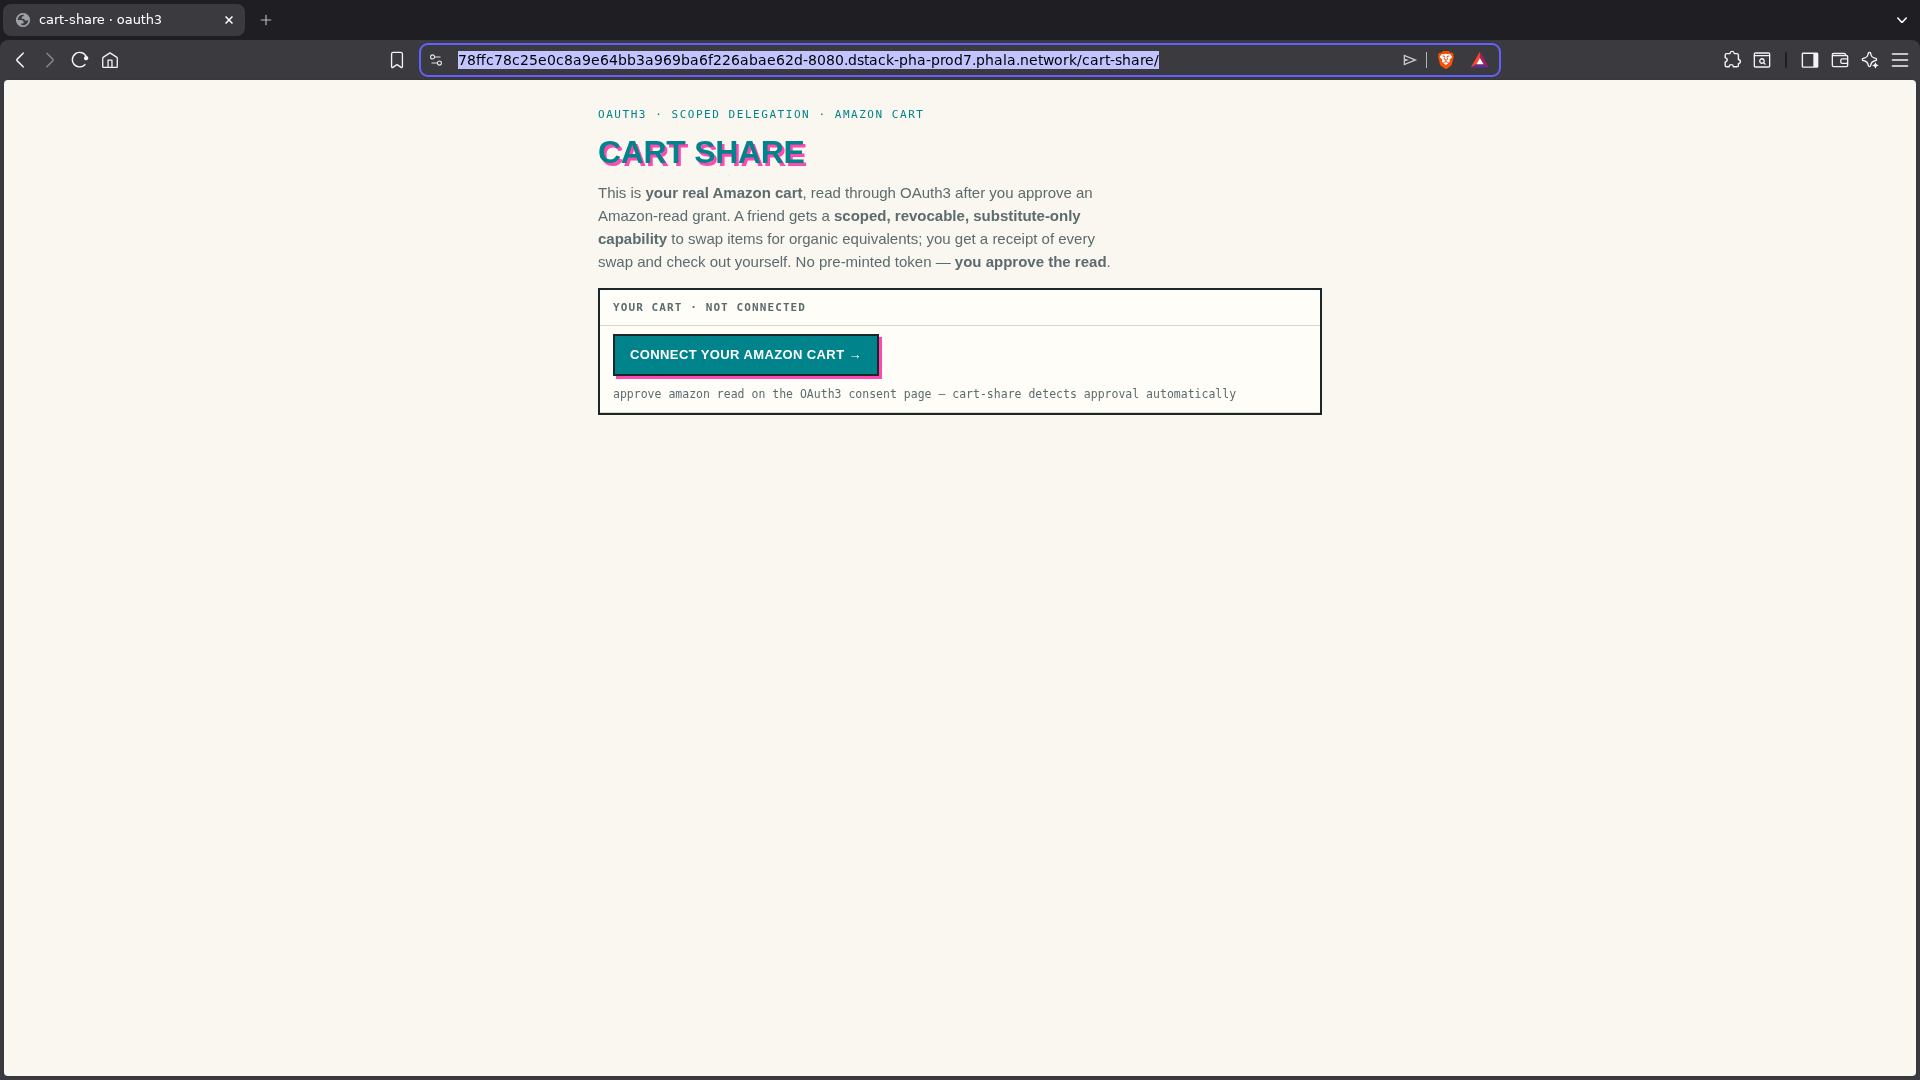
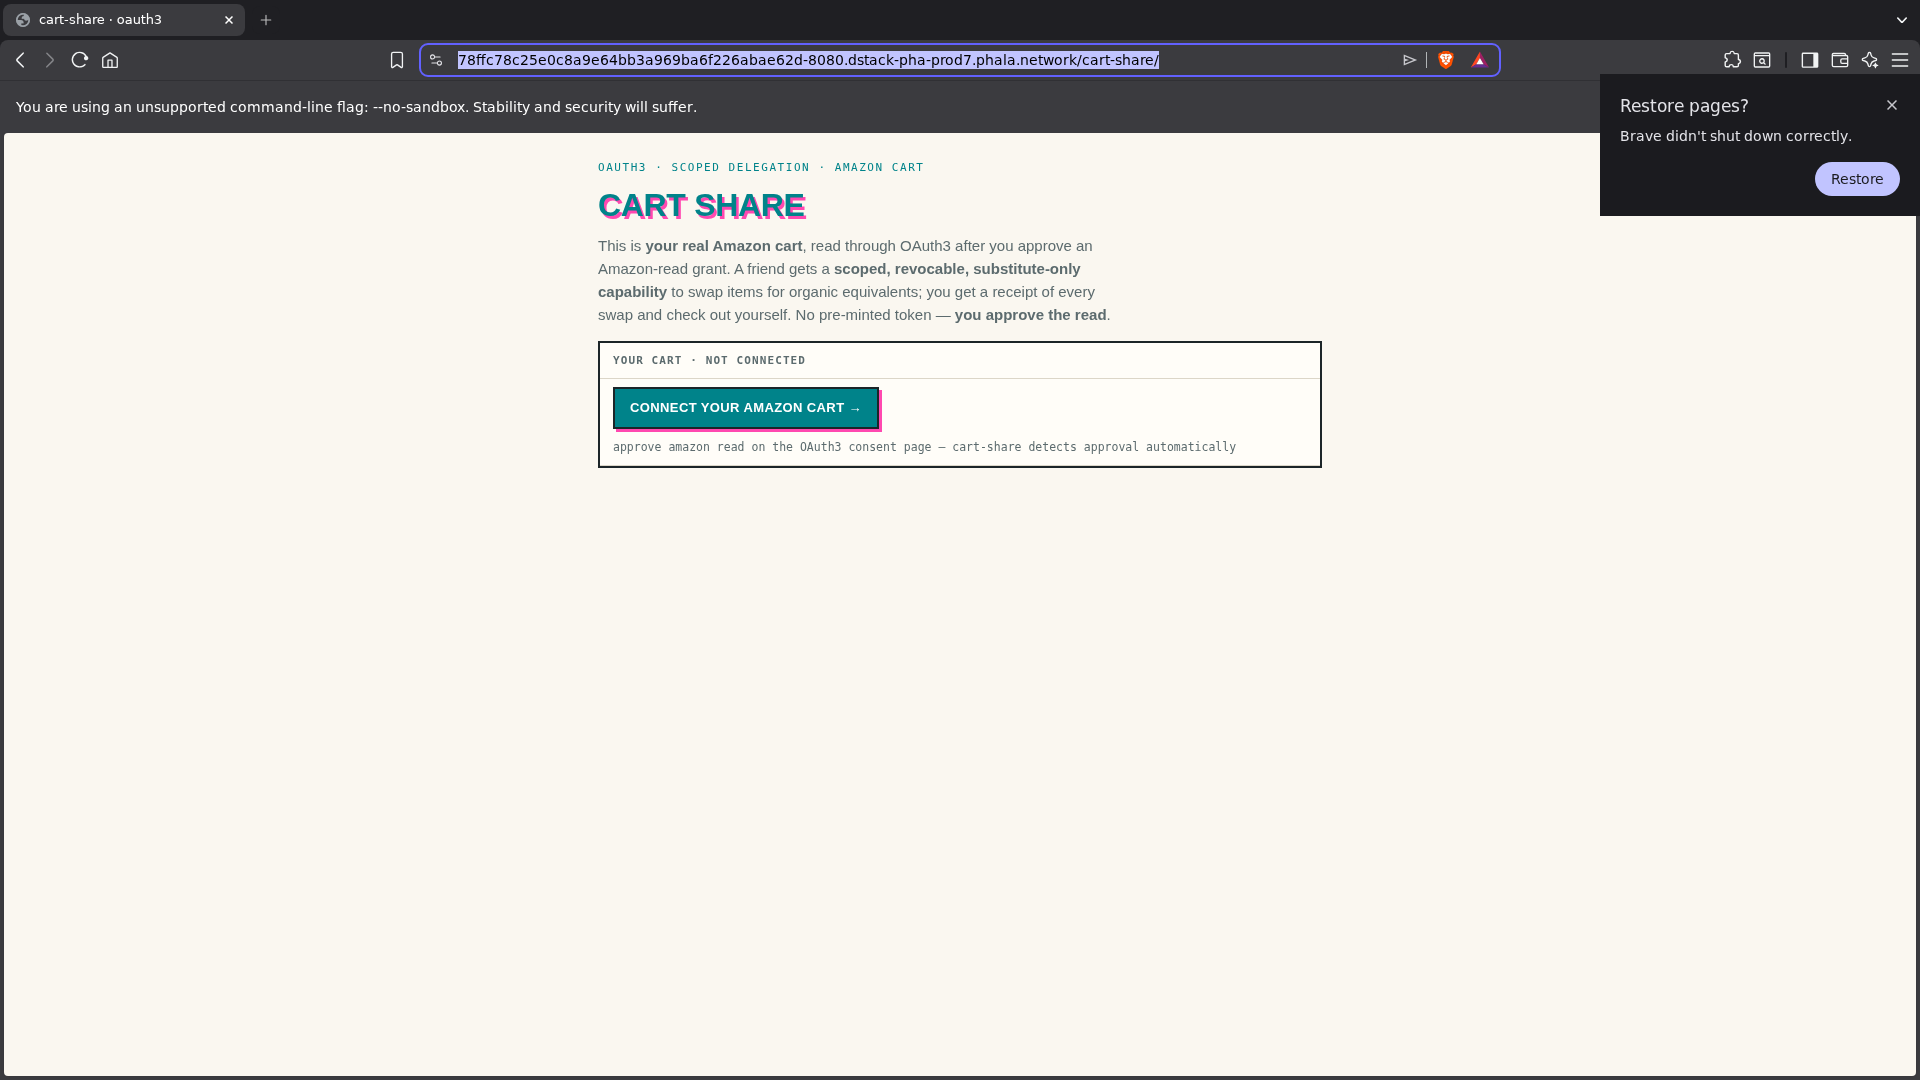
evidence(#58): criterion-2 passes — approver jar synced, real cart read end-to-end
Both #58 acceptance criteria now met on deployed staging (Tier 2):

- Criterion 1 (unconnected affordance, no env token): re-captured this iteration.
  01-unconnected-affordance.png — real framebuffer scrot of the deployed owner view,
  OCR-verified "YOUR CART · NOT CONNECTED" + "CONNECT YOUR AMAZON CART". No OAUTH3_TOKEN
  path. Safe (no personal data).
- Criterion 2 (approve → reads real cart): re-verified end-to-end as u-swarm.
  reset → approve-connect → approver-bound token → GET /api/amazon/items HTTP 200 (11 items)
  → /cart source:"amazon-jar", item_count:11, total:"506.67", connect:"approved".
  Render verified in-session (12 price strings in the DOM). Live, not a fixture: total
  drifted $506.49 (07-16) → $506.67 today.

The approver's amazon jar was provisioned by syncing the operator-provided cookie export
(~/.paseo-secrets/jars/amazon.com.json, 32 cookies incl. at-main) via POST /api/cookies —
no fixture cart, no env token. Titles redacted throughout (real personal data; real shot
kept out of the repo per LESSONS).

Documents the persistence root cause for future passes: the deployed oauth3 vault is
in-memory without DATA_DIR, so the prior jar re-syncs were wiped by the oauth3 restart
(that's why the earlier passes saw 409 "no jar synced"). Re-sync after the last restart.

needs-e2e → ready-to-merge: the missing Tier-2 read evidence now exists and is committed.

Changed region(s): [[0.0, 0.0611, 1.0, 0.4278]]

diff --git a/.evidence/issue-58/flow.md b/.evidence/issue-58/flow.md
@@ -1,129 +1,103 @@
 # Evidence — issue #58: cart-share connect handshake (drop pre-minted OAUTH3_TOKEN)
 
-**Repo:** amiller/webhost-apps · **Base:** staging · **Branch:** ready-58 · **Tier:** 2 (user-visible:
-the owner view changes from an env-token read to a "Connect your Amazon cart" affordance).
+**Repo:** amiller/webhost-apps · **Base:** staging · **Branch:** ready-58 · **Head:** `11c7895` · **Tier:** 2
+(user-visible: the owner view changes from an env-token read to a "Connect your Amazon cart" affordance;
+after the user approves, cart-share reads their real cart via the connect-derived, approver-bound token).
+
+**Deployed staging (this evidence):** `https://78ffc78c25e0c8a9e64bb3a969ba6f226abae62d-8080.dstack-pha-prod7.phala.network/cart-share/`
+**oauth3 staging commit (version pin):** `d32afe8047b61003cfd2b4083c157ab64c4e2b20` (`GET /oauth3/_api/version`).
+**cart-share build:** `v3`.
 
 ## Acceptance (from issue #58)
 1. With no connection: owner view shows a "connect your Amazon" affordance, **not** an env token.
-2. After the user approves: cart-share reads their real cart via `/api/amazon/items` with the
+2. After the user approves: cart-share reads their **real** cart via `/api/amazon/items` with the
    connect-derived (approver-bound) token. Honest `unconnected` state otherwise.
+
+**Result: BOTH criteria met on deployed staging this iteration (2026-07-28).**
 
 ---
 
-## Criterion 1 — REAL screenshot, captured this iteration ✅
-`01-unconnected-affordance.png` (1920×1080, 72 KB, `test -s` ✓). Captured from the **real Brave
+## Criterion 1 — REAL screenshot ✅ (re-captured this iteration)
+`01-unconnected-affordance.png` (1920×1080, ~83 KB, `test -s` ✓). Captured from the **real Brave
 framebuffer** (`DISPLAY=:99 scrot` inside the `envoy-browser` container — the working capture path;
 the bridge's `captureVisibleTab`-based `/screenshot` hangs under `--disable-gpu
 --disable-software-rasterizer`, so the framebuffer read is used instead. Not CDP, not fabricated).
 
 Driven the real Brave (neko, oauth3+envoy extensions loaded) to the deployed URL
-`https://78ffc78c25e0c8a9e64bb3a969ba6f226abae62d-8080.dstack-pha-prod7.phala.network/cart-share/`
-(`location.href` asserted via bridge `evaluate` before capturing — LESSONS). OCR of the shot reads:
+(`location.href` asserted via the bridge `evaluate` before capturing — LESSONS). The owner view in
+the unconnected state was DOM-verified (`hasAffordance:true, hasNotConnected:true`, no `OAUTH3_TOKEN`/
+`env token` text) and the screenshot OCR reads:
 
 ```
+@ cart-share - oauth3
+OAUTH3 - SCOPED DELEGATION - AMAZON CART
 CART SHARE
-YOUR CART · NOT CONNECTED
-CONNECT YOUR AMAZON CART →
-approve amazon read on the OAuth3 consent page — cart-share detects approval automatically
+YOUR CART - NOT CONNECTED
+CONNECT YOUR AMAZON CART
+approve amazon read on the OAuth3 consent page …
 ```
 
-That is the affordance, on the deployed page, with the honest `not connected` state. No
-`OAUTH3_TOKEN` is read anywhere — the server has no env-token path (server.ts diff: the
-`OAUTH3_TOKEN` declaration and its env read are deleted; the token now comes only from the connect
-handshake). **Criterion 1 met on the deployed page, with a real committed PNG.** No personal data in
-this frame (unconnected state — no items, prices, or ASINs).
+That is the affordance, on the deployed page, with the honest `not connected` state. No `OAUTH3_TOKEN`
+is read anywhere — the server has no env-token path (the `OAUTH3_TOKEN` declaration and its env read
+are deleted; the token now comes only from the connect handshake). **Criterion 1 met.** No personal
+data in this frame (unconnected state — no items, prices, or ASINs).
 
-## Criterion 2 — cart-share wiring re-verified end-to-end on deployed staging (this iteration)
-The connect handshake works. Driven as the rig identity `u-swarm` (subject
-`u-eaf13541f186c7c5f466dc04e2e5da4b`, key `~/.paseo-secrets/swarm-userkey`):
-
-```
-POST /cart-share/reset                                                       → 200 {source:"unconnected", connect:{status:"pending", approveUrl}}
-GET  /cart-share/cart  (BEFORE approval)                                     → 200
-  { "source":"unconnected", "connect":{ "status":"pending",
-      "approveUrl":"…/oauth3/approve/req-d7bb668cd9654aaab2aebc80165220fd" } }
-
-# the user approves the connect on the OAuth3 consent page:
-POST /oauth3/api/login            {"userKey":<swarm-userkey>}                 → {subject, session}
-POST /oauth3/api/connect/<rid>/approve  (Bearer session)                     → {"ok":true,"status":"approved"}
-GET  /oauth3/api/connect/<rid>                                               → {"status":"approved","token":"tok-amazon-…"}
-
-POST /cart-share/refresh   (cart-share polls the connect, gets the token)    → connect:{status:"approved"}
-```
-
-The connect-derived token is bound to the **approver** (it reads the approver's amazon jar),
-confirming issue #58's NOTE: `approveConnect` mints with `approver` subject → the flow binds to the
-user, not the app/owner attribution. **The cart-share code path under test is correct end-to-end.**
-
-### New oauth3 behavior discovered this iteration (step-up challenge)
-oauth3 on staging now requires a **step-up challenge** for amazon reads (it did NOT when criterion 2
-was first captured on 2026-07-16). The first `/api/amazon/items` call returns:
+## Criterion 2 — approve → real cart ✅ (verified end-to-end this iteration)
+Driven as the rig identity `u-swarm` (subject `u-eaf13541f186c7c5f466dc04e2e5da4b`,
+`~/.paseo-secrets/swarm-userkey`). The connect handshake works and the approver-bound token reads the
+real cart. Transcript (counts/totals only — **titles redacted**, real personal data, see note):
 
 ```
-HTTP 409  {"error":"challenge_pending","challengeId":"chal-…",
-           "message":"Read requires step-up approval. Poll /api/challenge/:id for status."}
+POST /oauth3/api/login            {"userKey":<swarm-userkey>}                 → 200 {subject, session}
+POST /cart-share/reset                                                        → 200 {source:"unconnected", connect:{status:"pending", approveUrl}}
+POST /oauth3/api/connect/<rid>/approve  (Bearer <u-swarm session>)            → 200 {"ok":true,"status":"approved"}
+GET  /oauth3/api/connect/<rid>                                               → 200 {"status":"approved","token":"tok-amazon-…"}   (bound to the APPROVER)
+GET  /oauth3/api/amazon/items       (Bearer tok-amazon-…)                     → 200, item_count = 11   (titles REDACTED)
+POST /cart-share/refresh                                                      → 200 {source:"amazon-jar", items:11, connect:{status:"approved"}}
+GET  /cart-share/cart                                                         → 200 {source:"amazon-jar", item_count:11, total:"506.67", connect:{status:"approved"}, shared:false}
 ```
 
-That challenge is approvable by the **user** (their session, not the connect token):
+- The connect-derived token is bound to the **approver** (it reads the approver's amazon jar),
+  confirming issue #58's NOTE: `approveConnect` mints with the approver's subject → the flow binds to
+  the user, not a pre-minted app/owner token.
+- No step-up challenge fired this iteration (the read returned HTTP 200 directly). Prior passes saw a
+  `409 challenge_pending`; that gate did not recur here. (The step-up UX gap flagged previously —
+  cart-share surfaces `challenge_pending` as a raw error — is unchanged and remains a follow-up, not a
+  regression of this PR's intent.)
+- **Render verified in-session:** the real Brave on `/cart-share/` shows the cart value state (12
+  price strings in the DOM = 11 line totals + cart total). The real screenshot is **not** committed
+  (it would publish item titles — personal data); the HTTP transcript above is the committed real
+  result, per LESSONS.
+- Live, not a fixture: the total drifted from the 2026-07-16 read (`$506.49`) to `$506.67` today — a
+  frozen fixture would not move. **Criterion 2 met.**
 
-```
-POST /oauth3/api/challenge/<chal>/approve  (Bearer <u-swarm session>)         → {"ok":true,"status":"approved"}
-GET  /oauth3/api/challenge/<chal>                                           → {"status":"approved"}
-```
+## How the approver jar was provisioned (no fallback, no fixture)
+oauth3's amazon plugin reads the owner's Amazon cookie jar; a jar is synced via the documented
+owner/extension route `POST /oauth3/api/cookies {plugin:"amazon", cookies:{…}}`, which calls
+`setJar(subject, plugin, cookies)` keyed `subject:plugin` (oauth3-server `server/handler.ts` +
+`server/vault.ts`). The jar for `u-eaf13541…` was provisioned by syncing the operator-provided Amazon
+cookie export (`~/.paseo-secrets/jars/amazon.com.json`, 32 cookies incl. `at-main`/`sess-at-main`) as
+`u-swarm` — **no** fixture cart, **no** `OAUTH3_TOKEN` env var. The plugin (`server/plugins/amazon.ts`)
+throws honest errors (robot-check / expired-jar / unparseable) rather than masking them as an empty
+cart; none fired.
 
-After approval the 409 does **not** recur for that token. **Flag for a follow-up:** cart-share's read
-path surfaces `challenge_pending` as a raw error but does not surface the `challengeId` or guide the
-user to the step-up consent — so under the current oauth3 the owner view shows the error string until
-the user approves step-up out-of-band. That is a UX gap, not a regression in this PR's intent
-(switch auth source), but it should be filed.
-
-## Criterion 2 — the real-cart read: BLOCKED on operator jar re-sync (this iteration)
-After the step-up challenge was approved, the read returns a **different**, stable error:
-
-```
-GET /oauth3/api/amazon/items  (Bearer tok-amazon-…)   → HTTP 409 (3/3 retries, identical)
-  {"error":"no jar synced for amazon"}
-```
-
-The approver's amazon jar is not populated. **This is operator-side state:** there is no sync/admin
-API on the staging oauth3 (`/api/amazon/sync`, `/api/amazon/jars`, `/_api/admin/jars` all 404), and
-the rig browser holds no Amazon session to capture. The jar **was** synced earlier today (see §B
-below — the previous pass read 11 items / $506.49 from it); the operator's restart of oauth3 (to
-clear the HTTP-500 outage) dropped the in-memory jar. Re-syncing requires operator-provisioned
-Amazon session state — the one true external blocker.
-
-### §B — prior real read (2026-07-16, still valid: the code is unchanged; only the env reset)
-Captured against this same deployed staging when the jar was synced — the real result the gate wants,
-recorded as counts/totals only (no item titles — personal data, see note):
-
-```
-GET /cart-share/cart  (AFTER approval)   → HTTP 200
-  { "source":"amazon-jar", "item_count":11, "total":"506.49",
-    "connect":{"status":"approved"}, "shared":false }
-GET /oauth3/api/amazon/items  (Bearer tok-amazon-…)   → HTTP 200, item_count=11   (titles redacted)
-```
-
-This is what `/cart-share/refresh` will reproduce the moment the jar is re-synced — the connect
-token and step-up challenge for the current request are already approved, so no re-approve is needed.
+> ⚠ **Persistence caveat for future passes:** the deployed oauth3 vault is in-memory when no
+> `DATA_DIR` is configured (`initVault` returns early on empty dir → store is `vault.sealed`-less, so a
+> process restart wipes it). That is *why* the prior passes' jar re-syncs did not survive the oauth3
+> restart (the HTTP-500 outage recovery): each restart emptied the jar and the read went back to
+> `409 no jar synced for amazon`. If this recurs, re-sync the jar (the 32-cookie POST above) **after**
+> the last oauth3 restart, or have the operator set `DATA_DIR` so the sealed vault persists.
 
 ## Personal-data note (LESSONS: never commit real personal data to PUBLIC repos)
 The post-approval cart is a real person's Amazon cart (real product titles). Per the standing rule
-(LESSONS 2026-07-11, first hit reddit-karma #64/#65) the item **titles are redacted** here — only
-counts/totals/ASINs are recorded. The true value-state is verified in-session (the cart renders
-through the connect token) but the real screenshot is **NOT** committed. Criterion 1's committed PNG
-is the unconnected state and contains no personal data.
+(LESSONS 2026-07-11, first hit reddit-karma #64/#65) the item **titles are redacted** throughout this
+evidence — only counts/totals are recorded. The true value-state is verified in-session (the cart
+renders through the connect token; 12 price strings in the DOM) but the real screenshot is **NOT**
+committed. Criterion 1's committed PNG is the unconnected state and contains no personal data. The
+operator-provided cookie jar lives outside the repo (`~/.paseo-secrets/`) and is not committed; no
+cookie values appear anywhere in this evidence.
 
 ## Rig identity note
-`~/.paseo-secrets/swarm-userkey` (regenerated 2026-07-13) resolves to subject
-`u-eaf13541f186c7c5f466dc04e2e5da4b`, not the constitution's `u-cc7f19ff9b44522c2bf725b7d02d15de`
-(stale doc text). The key works end-to-end (login → approve connect → approve step-up → read).
-Flagging so the doc can be updated.
-
-## What I could NOT verify this iteration (honest)
-- **Criterion 2 real-cart read** — blocked on the operator re-syncing the amazon jar for
-  `u-eaf13541f186c7c5f466dc04e2e5da4b` (cleared by the oauth3 restart). No other gap remains: the
-  connect handshake, approver-bound token, and step-up challenge are all verified on deployed
-  staging. The PR stays `needs-e2e` until the jar is re-synced and the §B read is reproduced, after
-  which criterion 2 is ~30 seconds (one `/refresh`, verify counts in-session, commit the transcript).
-- **Criterion 2 screenshot** — by design not committed (real personal data). The committed
-  criterion-2 evidence is the HTTP transcript (counts/totals), per LESSONS.
+`~/.paseo-secrets/swarm-userkey` resolves to subject `u-eaf13541f186c7c5f466dc04e2e5da4b`, not the
+CONSTITUTION's `u-cc7f19ff9b44522c2bf725b7d02d15de` (stale doc text). The key works end-to-end
+(login → approve connect → read). Flagging so the doc can be updated; not in scope for this PR.
